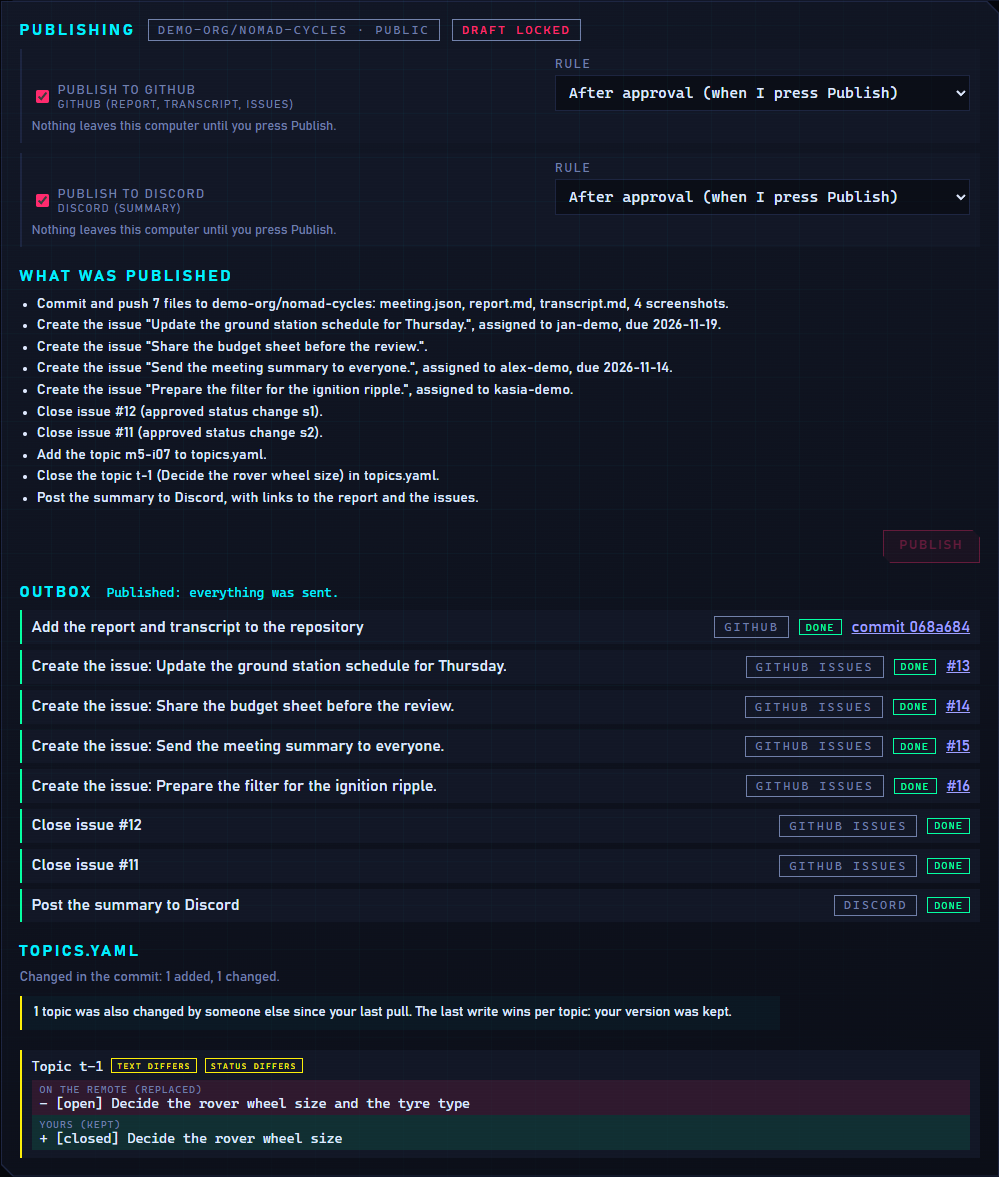
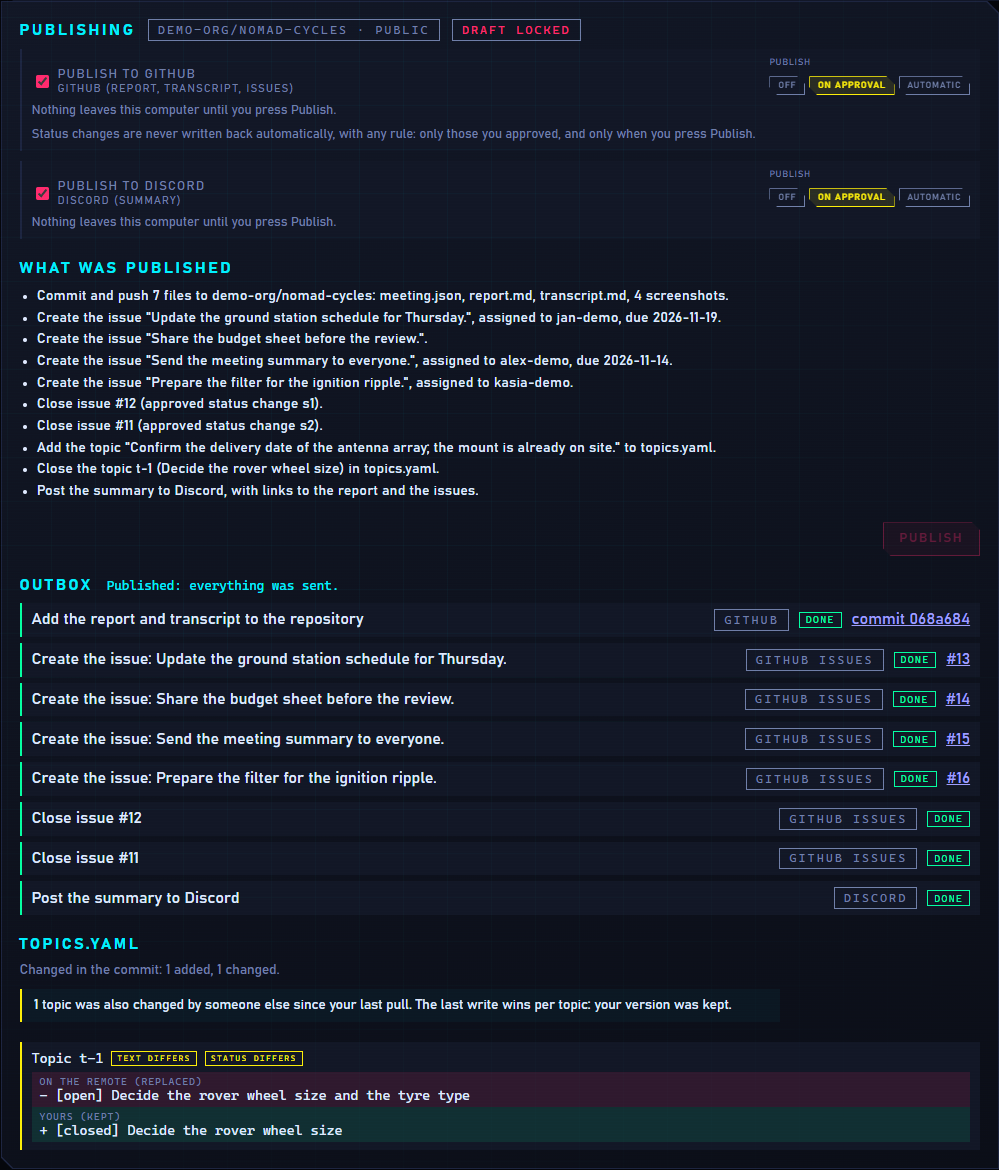
docs(ui): regenerate the screenshots and GIFs for the rule switch and the topics plan

diff --git a/docs/TESTING.md b/docs/TESTING.md
@@ -195,7 +195,7 @@ The fake worker in `crates/queue/tests/stage4_fake_worker.rs` is a small Python 
 | The whole loop on a demo-like cycle (approved status changes, report, transcript, screenshots and `topics.yaml` in the remote, issues with assignee, due date and report link, an issue closed on the fake GitHub that is done in the next context, a Discord message with mentions and issue links) | `cargo test -p publishers --test full_loop` | CI |
 | Faults: no network at publishing and recovery through the outbox, a push rejected by a concurrent commit and built again on the new tip, a remote that keeps changing, an answer lost after an issue or a comment was created (no duplicate), a rate limit, a crash while an operation runs, and a scan of the database file, the snapshots, the working tree, the history of both repositories, the log of the dispatcher and the outbox rows for the mock token and webhook | `cargo test -p publishers --test resilience` | CI |
 | Status changes, the publishing panel with the rule switch (Off, On approval, Automatic, also under Automatic with the public-repository check and in the settings), `topics.yaml` before and after in the plan and its fallback, the outbox, the public-repository dialog, the report and Discord previews and the token setup (components and the mock backend, with the fake publishing lab of the mock) | `cd ui && npm test && npm run test:e2e` | CI |
-| The images and the GIF of publishing in the README (`status-approval.png`, `publishing-panel.png`, `report-rendered.png`, `discord-message.png`, `token-setup.png`, `approve-and-publish.gif`), regenerated on the mock backend | `cd ui && npx playwright test --project=screenshots -g "status approval|publishing panel|rendered report|Discord message|token setup|approve statuses"` | Locally, when the screens change |
+| The images and the GIF of publishing in the README (`status-approval.png`, `publishing-plan.png`, `publishing-panel.png`, `report-rendered.png`, `discord-message.png`, `token-setup.png`, `approve-and-publish.gif`), regenerated on the mock backend | `cd ui && npx playwright test --project=screenshots -g "status approval|publishing plan|publishing panel|rendered report|Discord message|token setup|approve statuses"` | Locally, when the screens change |
 | Release check against the real services: a test GitHub repository (token and push rights, an issue created once, closed with a comment and read back, a commit pushed to a new branch that is removed again) and a test Discord webhook (the webhook exists, one message is posted) | `BBB_RELEASE_CHECK=yes BBB_RC_REPO=<owner/name> BBB_RC_DISCORD_REF=<cred:...> cargo test -p app release_check -- --ignored --test-threads=1 --nocapture` | Locally before a release |
 
 Every test is written against fakes: the "network" is loopback ports that the tests start, the "remote" is a bare repository in a temporary folder, and "offline" is a closed port or a renamed folder. No normal test talks to a real host.

diff --git a/README.md b/README.md
@@ -121,6 +121,8 @@ The organization issue field "Target date" is used for due dates in organization
 4. If the repository is public, or its visibility cannot be read, the dialog **Publish to a public repository?** asks once; tick **I understand that `<repo>` is public and I want to publish to it** and press **Publish to a public repository**, or **Cancel** to publish nothing.
 5. The **Outbox** shows each operation as **Waiting**, **Running**, **Done** or failed, with links to the commit and the issues. **Retry now** and **Cancel** act on one operation, **Retry all now** on all that wait. When everything is sent the list reads **What was published** and the draft is marked **Draft locked**. **topics.yaml** shows, per topic, what was changed and, when a colleague changed the same topic meanwhile, both versions: the last write wins and the other stays visible.
 
+![The publishing panel before publishing: the rule switch of each target, what will happen, and topics.yaml before and after with a topic that a colleague changed marked](docs/img/publishing-plan.png)
+
 **5. Public repositories.** A transcript contains personal data and cannot be taken back from a Git history. If the repository is public, or its visibility cannot be read, nothing is published to it until you confirm that repository once, also under **Automatically**. The check is repeated right before anything is sent, so an operation queued earlier cannot slip into a repository that has since become public.
 
 **6. Offline and retries.** Publishing never blocks on the network. Operations wait in a queue stored in the local database and are retried with a growing delay (or the delay a service asks for); a dead Discord does not hold back the report. Failures that need you (a wrong token, a missing permission, a repository that does not exist) stop with a message that contains no secret, and you retry or cancel them. Closing the application does not lose them. While operations of a meeting are queued, and after it is published, its draft cannot be edited. Publishing a meeting a second time is not supported.
